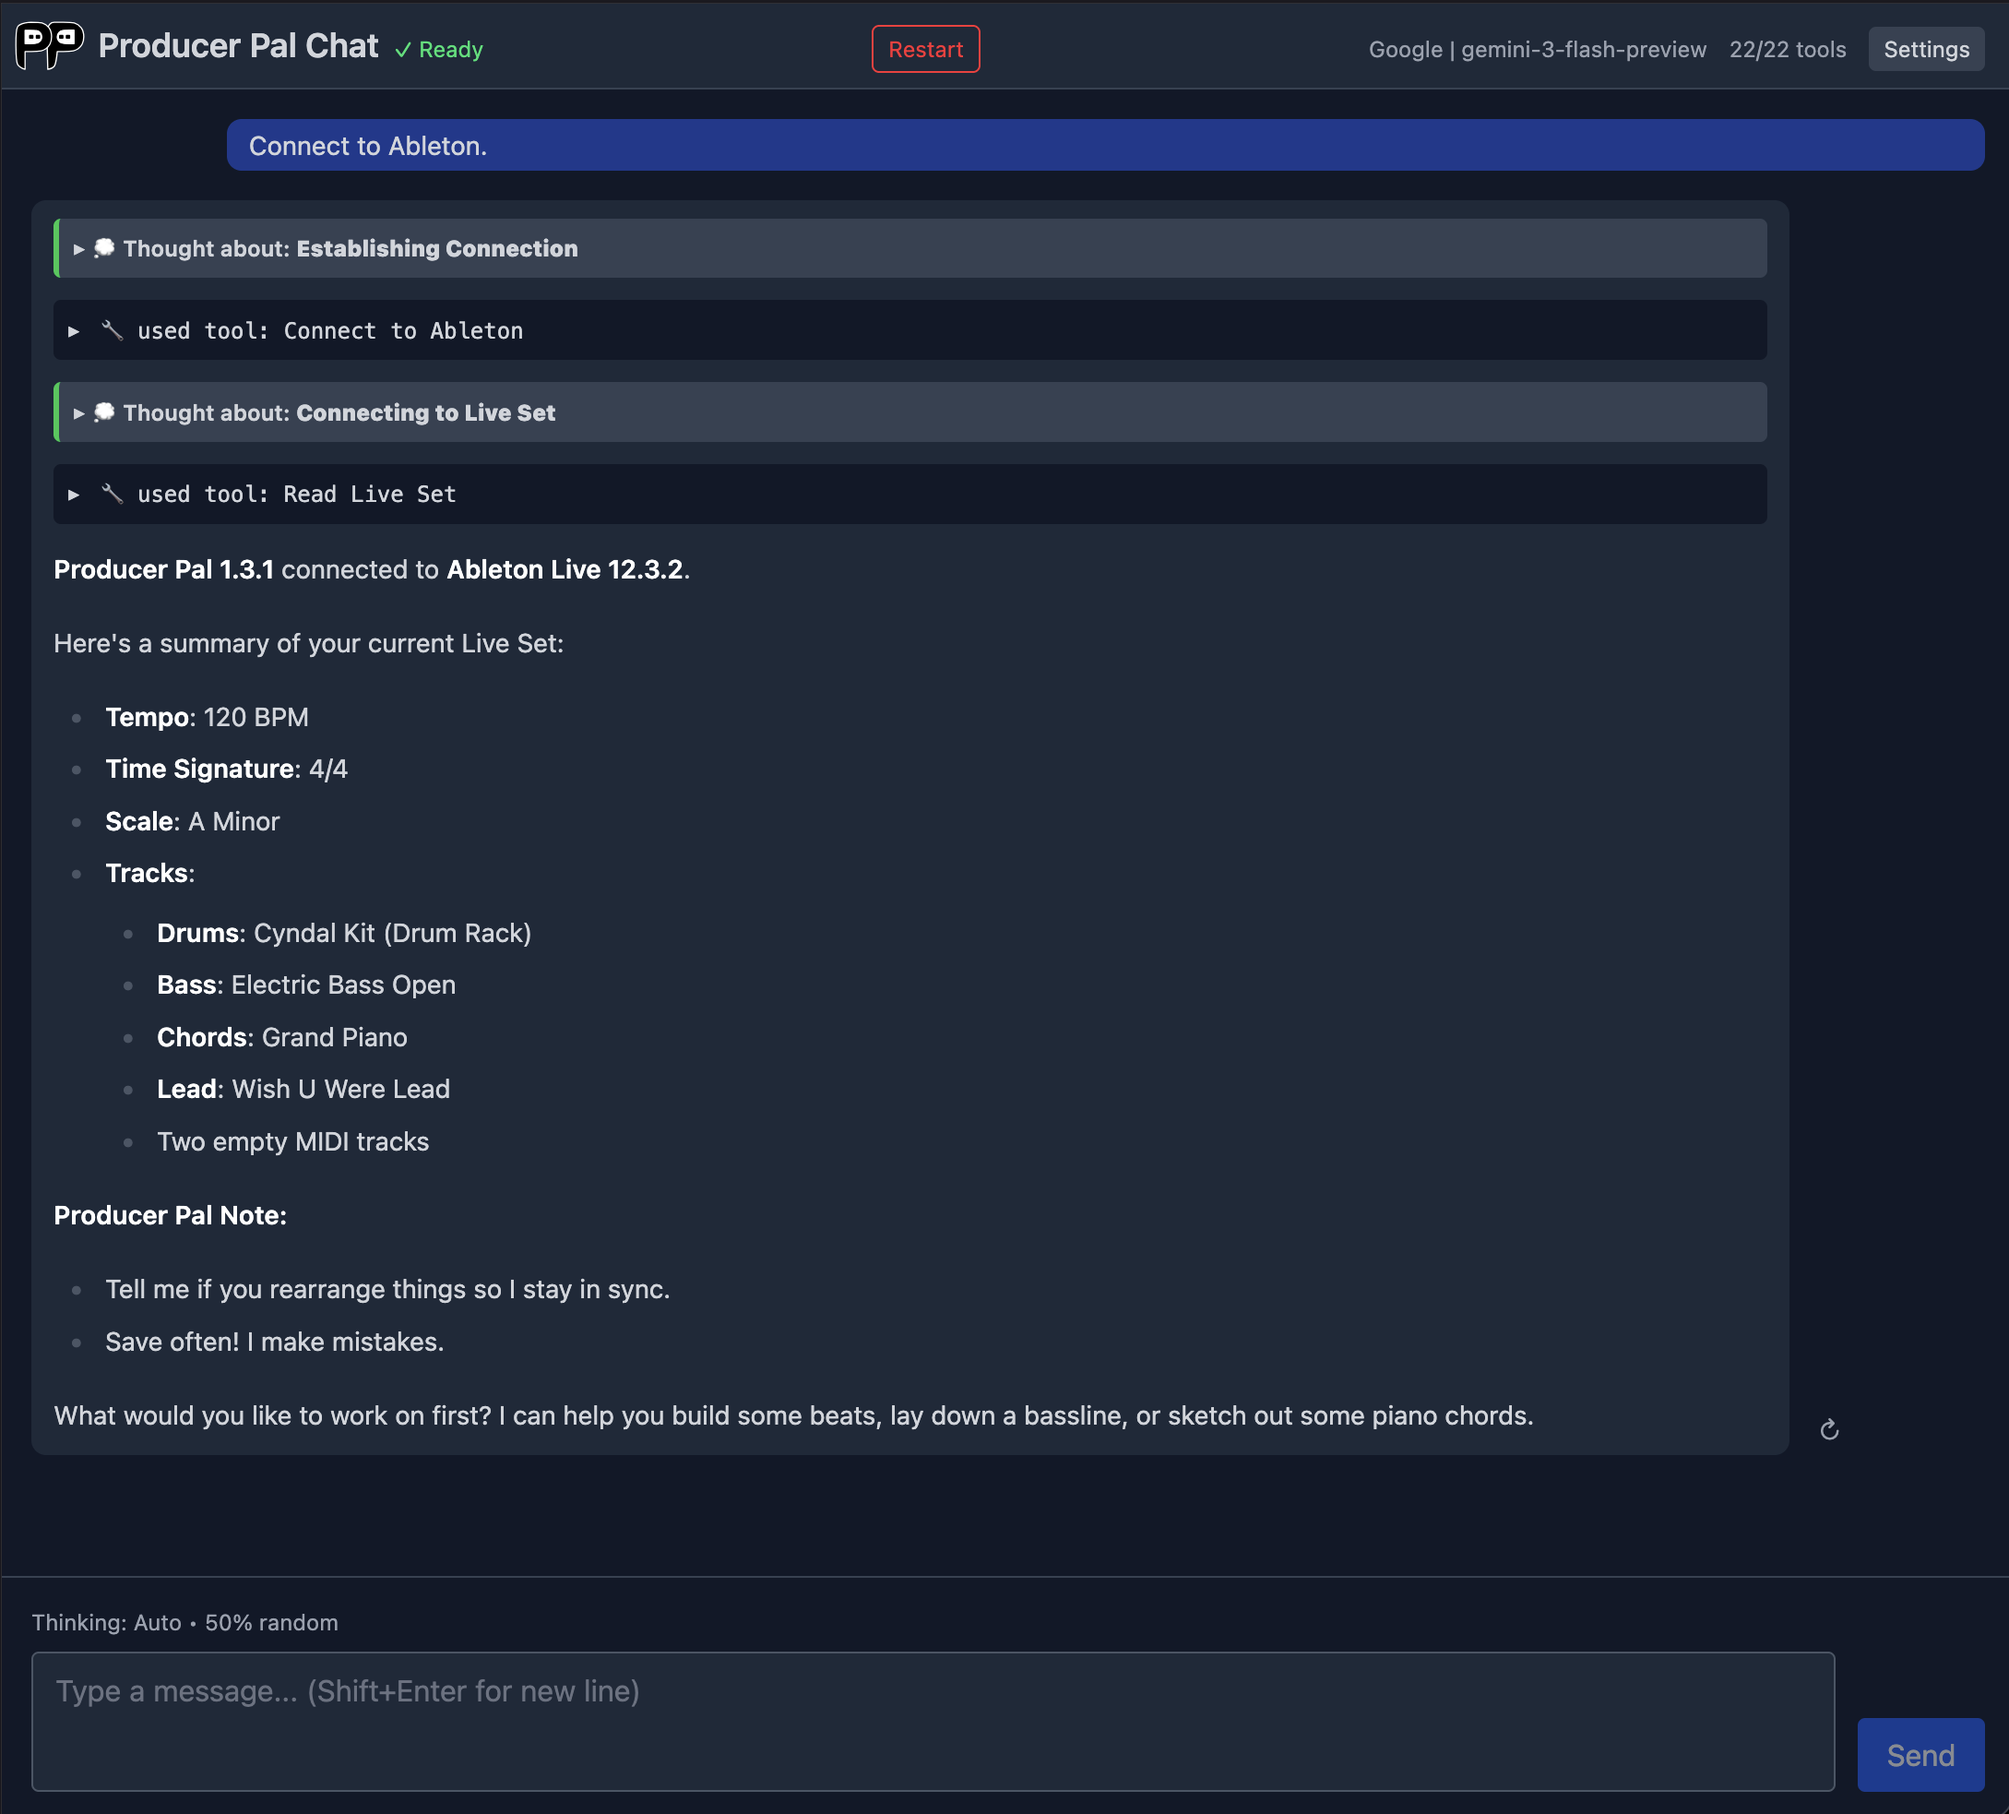
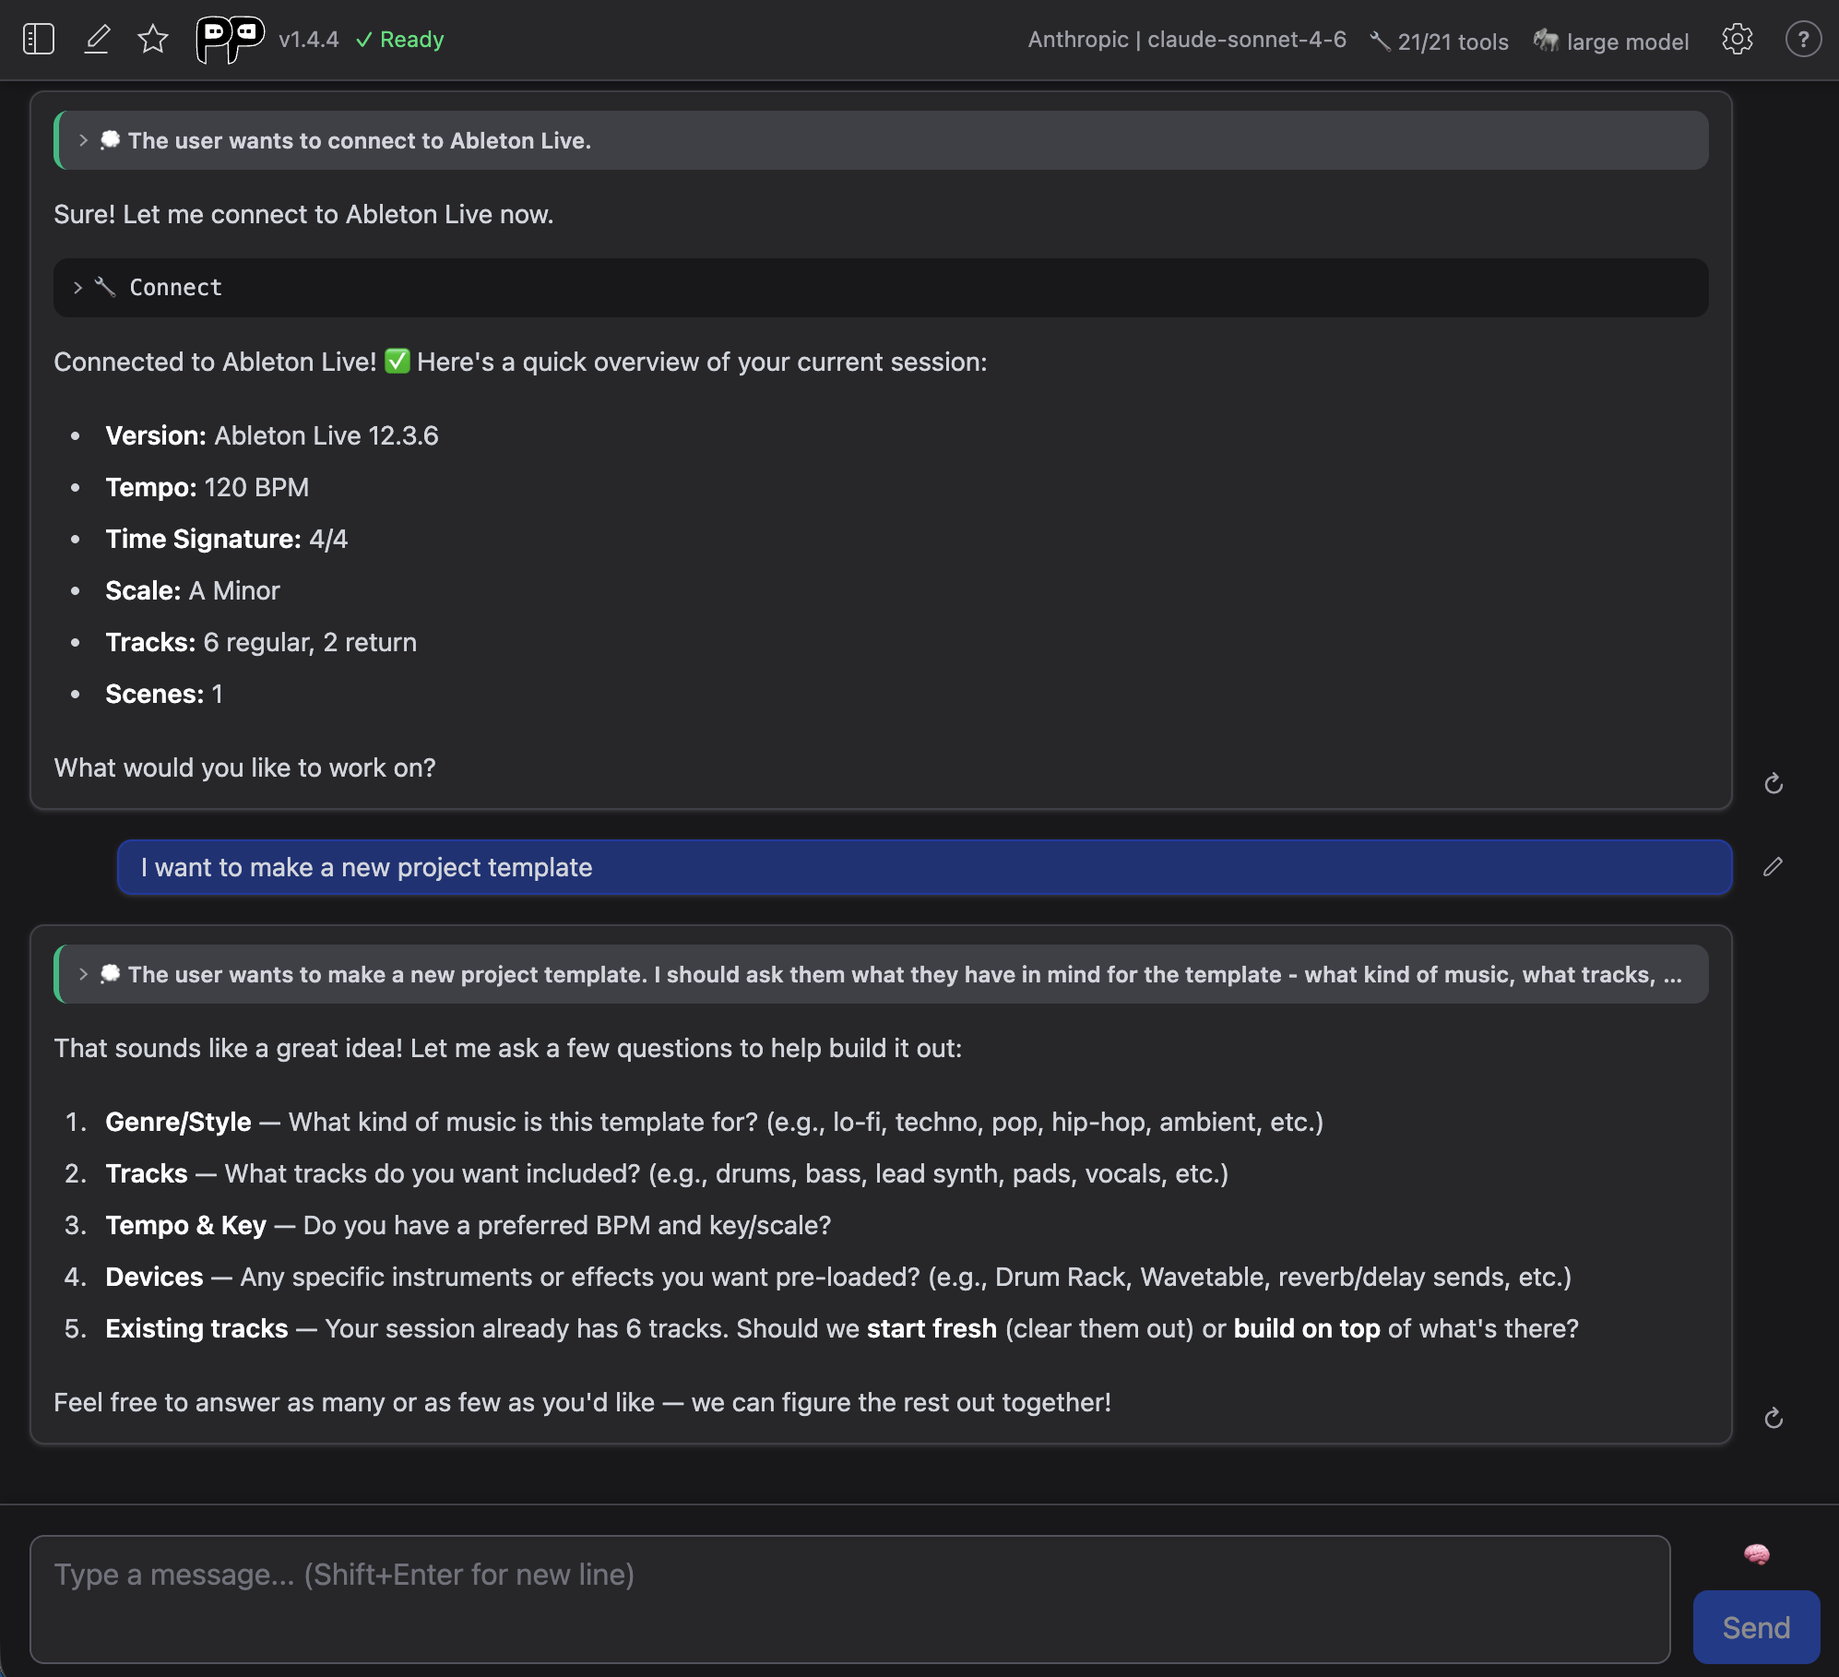
Update chat UI docs with new screenshots and revised content
Rewrites the chat UI guide to reflect current UI: header layout,
conversation history panel, bookmarks, thinking toggle, and renamed
Display settings tab. Adds new screenshots and removes obsolete ones
(Appearance, Behavior tabs).

Changed region(s): [[0.0, 0.0, 0.995, 0.8009], [0.0, 0.8933, 0.995, 1.0], [0.0311, 0.8317, 0.6219, 0.8625]]

diff --git a/docs/.vitepress/theme/index.ts b/docs/.vitepress/theme/index.ts
@@ -1,6 +1,7 @@
 import DefaultTheme from "vitepress/theme";
 import "./demo.css";
 import "./get-started.css";
+import "./screenshots.css";
 import "./tool-schemas.css";
 
 export default DefaultTheme;

diff --git a/docs/.vitepress/theme/screenshots.css b/docs/.vitepress/theme/screenshots.css
@@ -1,0 +1,5 @@
+/* Light border + rounding on screenshots in doc content */
+.vp-doc img {
+  border: 1px solid var(--vp-c-divider);
+  border-radius: 8px;
+}

diff --git a/docs/guide/chat-ui.md b/docs/guide/chat-ui.md
@@ -7,20 +7,61 @@ directly from within Producer Pal.
 
 ## Getting Started
 
-1. Enable Chat UI in the [Device Interface](/guide/device) Main tab
-2. Click "Open Chat UI" or navigate to `http://localhost:3350/chat`
-3. If this is your first time using the chat UI, you need to configure which AI
-   to use. See [the Settings documentation](#settings) below
-4. Click "Quick Connect" to connect to Ableton Live (this is a shortcut sending
-   "Connect to Ableton" via the message input)
+1. Click "Open Chat UI" in the [Device Interface](/guide/device) Main tab (make
+   sure the Chat UI is enabled)
+2. Configure your AI provider in [Settings](#settings) (opens automatically on
+   first use)
+3. Click "Quick Connect" to connect to Ableton Live
 
 ## Header Bar
 
-- **Status** - Shows "Ready" (green) when connected to Ableton
-- **Provider & Model** - Current AI provider and model
-- **Tools** - Number of enabled tools (e.g., "22/22 tools")
-- **Settings** - Open settings dialog
-- **Restart** - Start a new conversation (appears during chat)
+The header is organized into three areas:
+
+- **Left** - History panel toggle, New conversation (+), Bookmark star (for the
+  active conversation)
+- **Center** - Producer Pal logo, title, and version (shows an "update" link
+  when a newer version is available)
+- **Right** - Connection status indicator, Provider & Model (click to open
+  connection settings), Tools count (click to open tools settings), Small model
+  indicator, Settings gear, Help link (?)
+
+## Conversation History
+
+<img src="/img/producer-pal-chat-history-panel.png" alt="Conversation history" width="400"/>
+
+Toggle the history panel using the panel icon in the header. On mobile it takes
+the full width; on larger screens it appears as a sidebar.
+
+### Bookmarks
+
+Star a conversation to pin it to the **Bookmarks** section at the top of the
+list. Bookmarked conversations are never auto-deleted when the storage limit is
+reached. You can toggle the bookmark from the header star icon or from the
+conversation row.
+
+### Managing Conversations
+
+Each conversation in the list has action buttons that appear on hover:
+
+- **Rename** - Click the pencil icon to edit the title inline (Enter to save,
+  Escape to cancel)
+- **Export** - Download a single conversation as a JSON file
+- **Delete** - Remove the conversation from history
+
+Conversations are auto-saved to your browser's storage as you chat. Up to 200
+conversations are kept; when the limit is reached, the oldest non-bookmarked
+conversations are automatically removed.
+
+### Export & Import
+
+The toolbar at the top of the history panel has buttons to:
+
+- **Export all** - Download all conversations as a single JSON file
+- **Import** - Load conversations from a previously exported JSON file. New
+  conversations are added and existing ones are updated if the imported version
+  is newer
+
+A notification banner confirms the result of each operation.
 
 ## Conversations
 
@@ -43,17 +84,39 @@ sections to see the AI's reasoning process:
 
 ## Message Input
 
-- **Thinking indicator** - Shows current thinking mode and randomness (this can
-  be changed in settings)
+### Thinking Toggle
+
+The thinking toggle next to the text area controls how much reasoning effort the
+AI uses for the next message. Click it to cycle through three levels:
+
+- 🧠 (greyed out) **Off** - No thinking
+- 🧠 **Default** - Let the AI decide
+- 🧠⚡ **Max** - Maximum thinking effort
+
+![Thinking toggle](/img/producer-pal-chat-thinking-toggle.png)
+
+The default thinking level for new conversations is set in
+[Connection settings](#connection). The toggle in the message input area
+overrides it for individual messages.
+
+### Text Area & Send
+
 - **Text area** - Type your message (Shift+Enter for new line)
-- **Send** - Send your message
+- **Send / Stop** - Send your message, or stop a response in progress
 
 ## Settings
 
-Settings are stored on your computer in your browser's local storage so you
-don't have to redo the setup every time you use Producer Pal. If entering an AI
-cloud provider's API key concerns you, use a private browser or clear your
-settings after use.
+Settings open as a modal overlay. Press Escape or click outside to close (if
+there are unsaved changes, the dialog will shake as a reminder to save or
+cancel).
+
+Settings are stored in your browser so you don't have to redo the setup every
+time. If entering an AI cloud provider's API key concerns you, use a private
+browser or clear your settings after use.
+
+When an active conversation was started with a different model or provider than
+the current defaults, a notice appears indicating that changes apply to new
+conversations only.
 
 For more information about how to configure specific AI providers, see the
 [installation guide for AI with the chat UI](/installation/chat-ui).
@@ -64,12 +127,15 @@ The Connection tab is where you choose and configure your AI provider and model:
 
 <img src="/img/producer-pal-chat-settings-connection.png" alt="Connection settings" width="500"/>
 
-Configure your AI provider:
-
 - **Provider** - Choose from Gemini, OpenAI, Mistral, OpenRouter, Ollama
   (local), LM Studio (local), or Other
 - **API Key** - Your API key (for cloud providers)
 - **Model** - Select a model or enter a custom model name
+- **Thinking** - Default thinking level for new conversations (Off, Default, or
+  Max). Can also be overridden per-message using the thinking toggle in the
+  message input area
+- **Small model mode** - Reduces tool descriptions to save context for local
+  models. Recommended when using Ollama or LM Studio
 
 #### Local AI settings (Ollama, LM Studio)
 
@@ -114,20 +180,6 @@ For example, one could use [groq.com](https://groq.com/) as follows:
 
 <img src="/img/producer-pal-chat-settings-custom-provider.png" alt="Custom provider" width="500"/>
 
-### Behavior
-
-The behavior tab lets you control aspects of how the AI behaves:
-
-<img src="/img/producer-pal-chat-settings-behavior.png" alt="Behavior settings" width="500"/>
-
-- **Thinking** - Control AI thinking effort. The choices and availability of
-  this option depend on the provider selected in
-  [the Connection tab](#connection)
-- **Show thinking process** - Display AI reasoning in chat. If you don't care
-  about this, you can disable it to reduce clutter.
-- **Randomness** - Creativity level (0% = deterministic, 100% = creative)
-- **Reset to defaults** - Restore default behavior settings
-
 ### Tools
 
 The Tools tab controls which tools are available to the AI when using the chat
@@ -141,9 +193,13 @@ Consult [the Features page](/features) for more info on what each tool does.
 
 <img src="/img/producer-pal-chat-settings-tools.png" alt="Tools settings" width="500"/>
 
-### Appearance
+### Display
 
-The Appearance tab lets you choose between light mode or dark mode, or follow
-the system settings:
+The Display tab controls visual preferences:
 
-<img src="/img/producer-pal-chat-settings-appearance.png" alt="Appearance settings" width="500"/>
+<img src="/img/producer-pal-chat-settings-display.png" alt="Display settings" width="500"/>
+
+- **Theme** - Light, Dark, or System (follow your OS preference)
+- **Show message timestamps** - Display the date and time next to each message
+- **Show help links** - Show or hide the documentation help buttons (?) in the
+  header and settings
